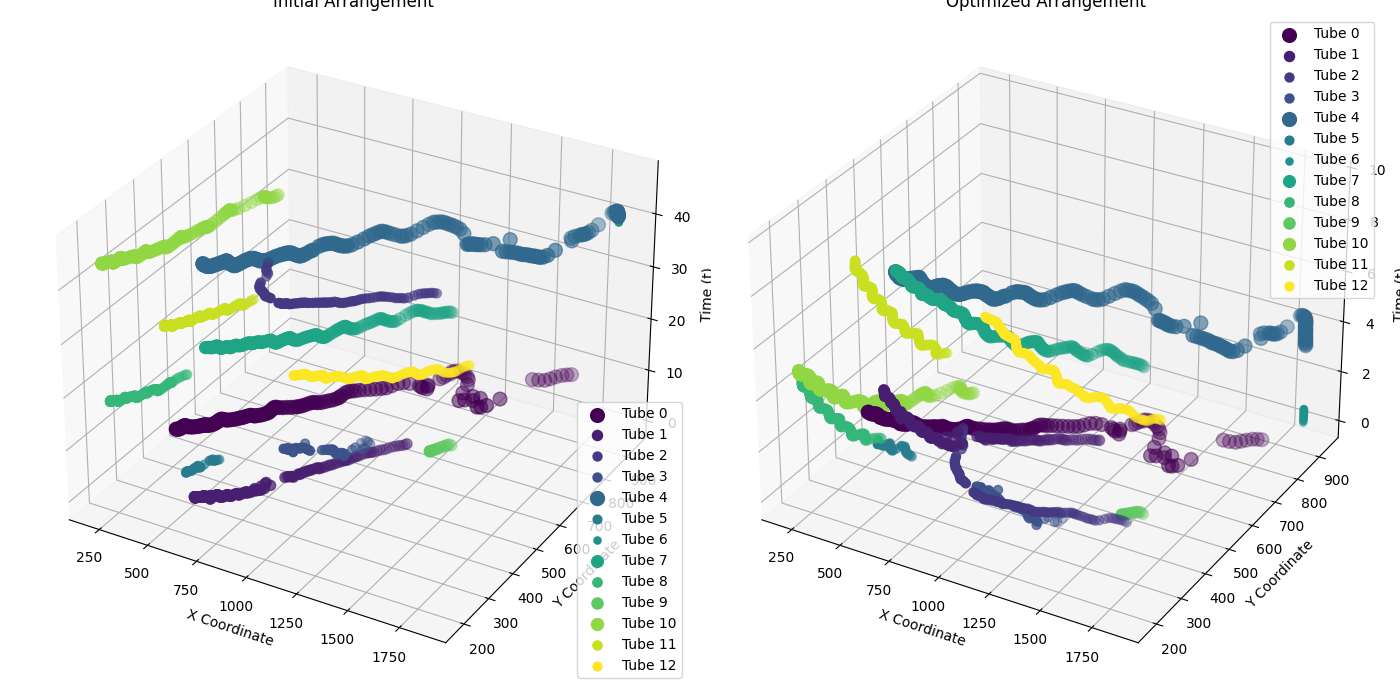
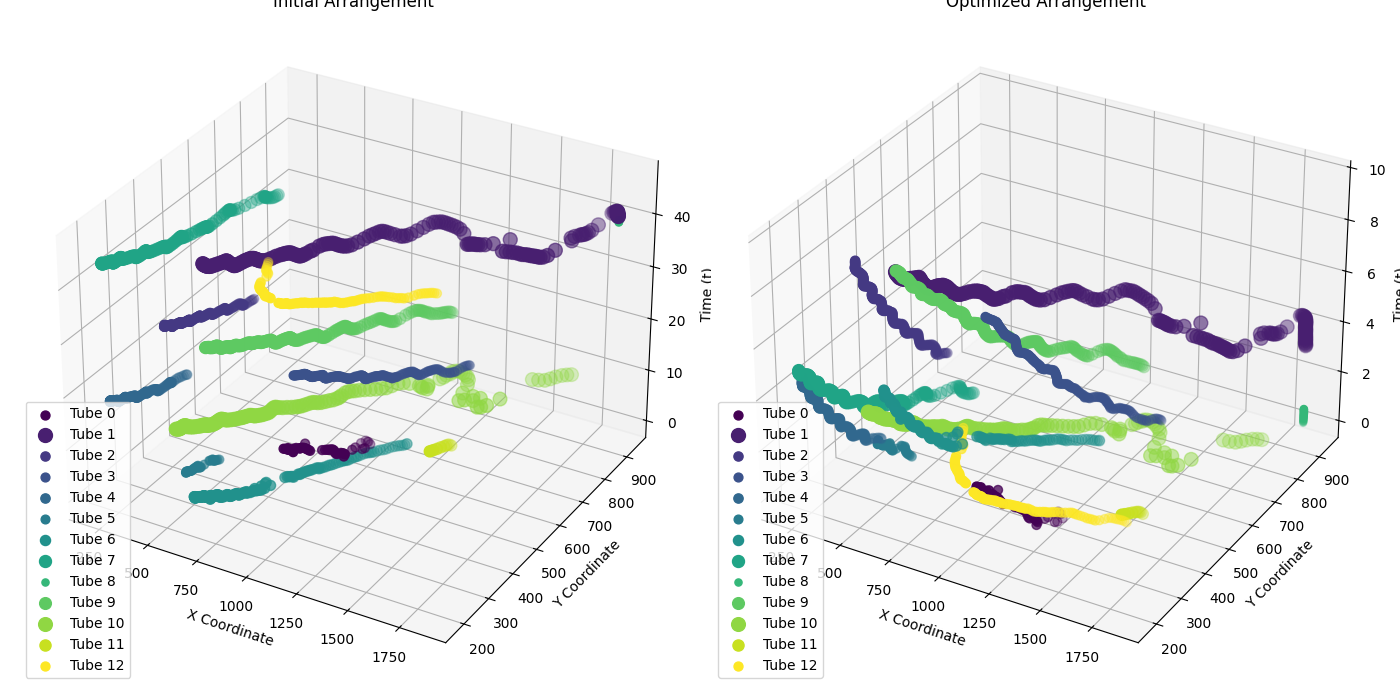
fixed minor bug

diff --git a/energy.py b/energy.py
@@ -20,14 +20,12 @@ def plot_tubes(ax, tube_data, tube_starts, areas, title):
         if tube_starts is not None:
             z = z - np.min(z) + tube_starts[i]
         area_size = (areas[tube_id] / np.max(list(areas.values())) * 100)
-        ax.scatter(x, y, z, s=area_size, color=colors[i % len(colors)], label=f'Tube {tube_id}')
+        ax.scatter(x, y, z, s=area_size, c=[colors[i % len(colors)]], label=f'Tube {tube_id}')
     ax.set_title(title)
     ax.legend(loc="lower left")
     ax.set_xlabel('X Coordinate')
     ax.set_ylabel('Y Coordinate')
     ax.set_zlabel('Time (t)')
-    ax.legend()
-    
 
 
 def parse_contours(contour_str):
